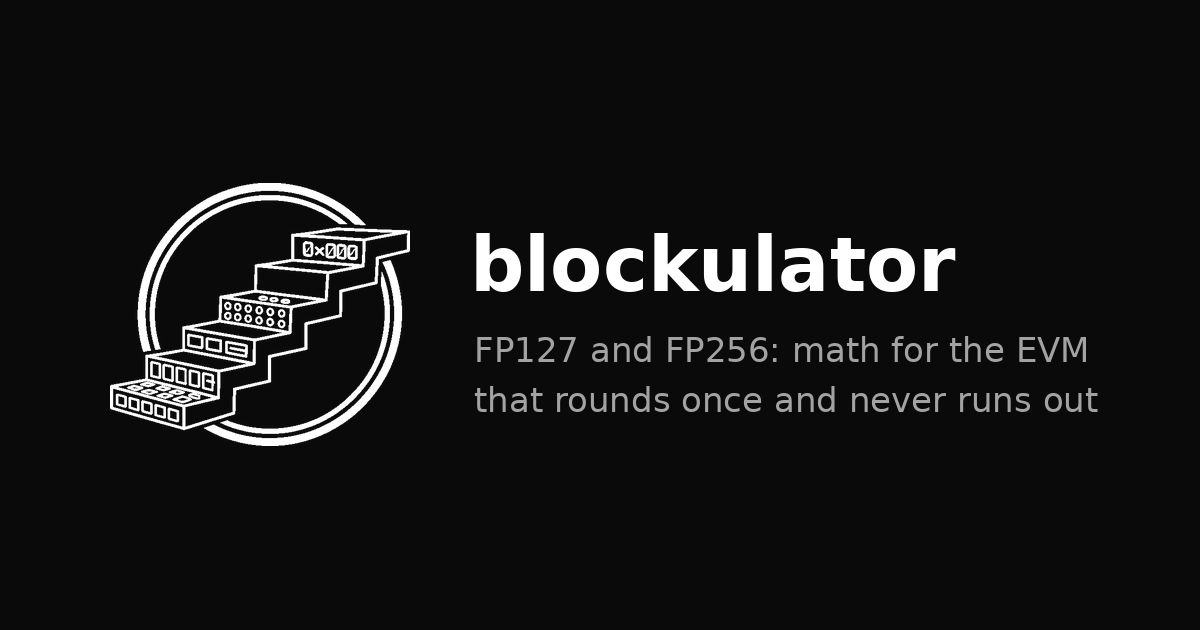
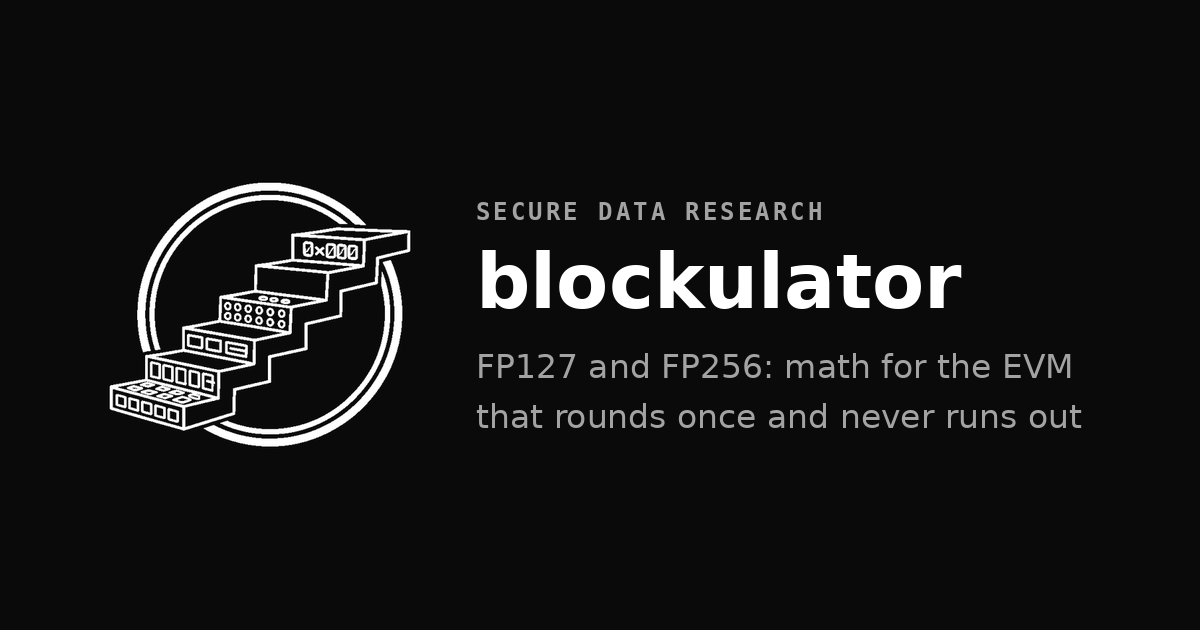
og: Secure Data Research on the link-preview card, drawn by scripts/og/og.py (make og)
The card had no generator. og.py redraws it at 1200x630 from
static/icon-512.png, DejaVu Sans and the site.css tokens, with the same
mark, name and line as before and SECURE DATA RESEARCH above the name in
the hero's eyebrow style.

diff --git a/scripts/og/og.py b/scripts/og/og.py
@@ -1,0 +1,73 @@
+"""Draw static/og.png, the 1200x630 link-preview card.
+
+    make og        (uv run --with pillow python scripts/og/og.py)
+
+The mark is static/icon-512.png; the type is DejaVu Sans, found through
+fontconfig. Colours are site.css tokens: --ink for the ground, --white for
+the name, --g-300 for the eyebrow and the line under the name.
+"""
+
+import subprocess
+from pathlib import Path
+
+from PIL import Image, ImageDraw, ImageFont
+
+ROOT = Path(__file__).resolve().parents[2]
+OUT = ROOT / "static" / "og.png"
+MARK = ROOT / "static" / "icon-512.png"
+
+W, H = 1200, 630
+INK, WHITE, G300 = "#0a0a0a", "#ffffff", "#a3a3a3"
+
+EYEBROW = "SECURE DATA RESEARCH"
+TITLE = "blockulator"
+LINES = ["FP127 and FP256: math for the EVM", "that rounds once and never runs out"]
+
+
+def font(pattern: str, size: int) -> ImageFont.FreeTypeFont:
+    path = subprocess.run(
+        ["fc-match", "-f", "%{file}", pattern], capture_output=True, text=True, check=True
+    ).stdout
+    if "DejaVu" not in path:
+        raise SystemExit(f"fc-match {pattern!r} gave {path!r}; install DejaVu fonts")
+    return ImageFont.truetype(path, size)
+
+
+def main() -> None:
+    im = Image.new("RGB", (W, H), INK)
+    mark = Image.open(MARK).convert("RGB").resize((370, 370), Image.LANCZOS)
+    im.paste(mark, (75, (H - 370) // 2))
+
+    d = ImageDraw.Draw(im)
+    f_eye = font("DejaVu Sans Mono:bold", 24)
+    f_title = font("DejaVu Sans:bold", 76)
+    f_sub = font("DejaVu Sans", 33)
+
+    # Rows top to bottom: (text, font, colour, letter spacing, gap below the ink).
+    rows = [(EYEBROW, f_eye, G300, 3, 30), (TITLE, f_title, WHITE, 0, 44)]
+    rows += [(t, f_sub, G300, 0, 25) for t in LINES]
+    rows[-1] = rows[-1][:4] + (0,)
+
+    def ink(text, f, sp):
+        x0, y0, x1, y1 = f.getbbox(text)
+        return y0, y1 - y0, x1 + sp * (len(text) - 1)
+
+    total = sum(ink(t, f, sp)[1] + gap for t, f, _, sp, gap in rows)
+    x, y = 476, (H - total) // 2
+    for text, f, colour, sp, gap in rows:
+        top, height, _ = ink(text, f, sp)
+        if sp:
+            cx = x
+            for ch in text:
+                d.text((cx, y - top), ch, font=f, fill=colour)
+                cx += f.getlength(ch) + sp
+        else:
+            d.text((x, y - top), text, font=f, fill=colour)
+        y += height + gap
+
+    im.save(OUT, optimize=True)
+    print(f"wrote {OUT.relative_to(ROOT)} {W}x{H}")
+
+
+if __name__ == "__main__":
+    main()
